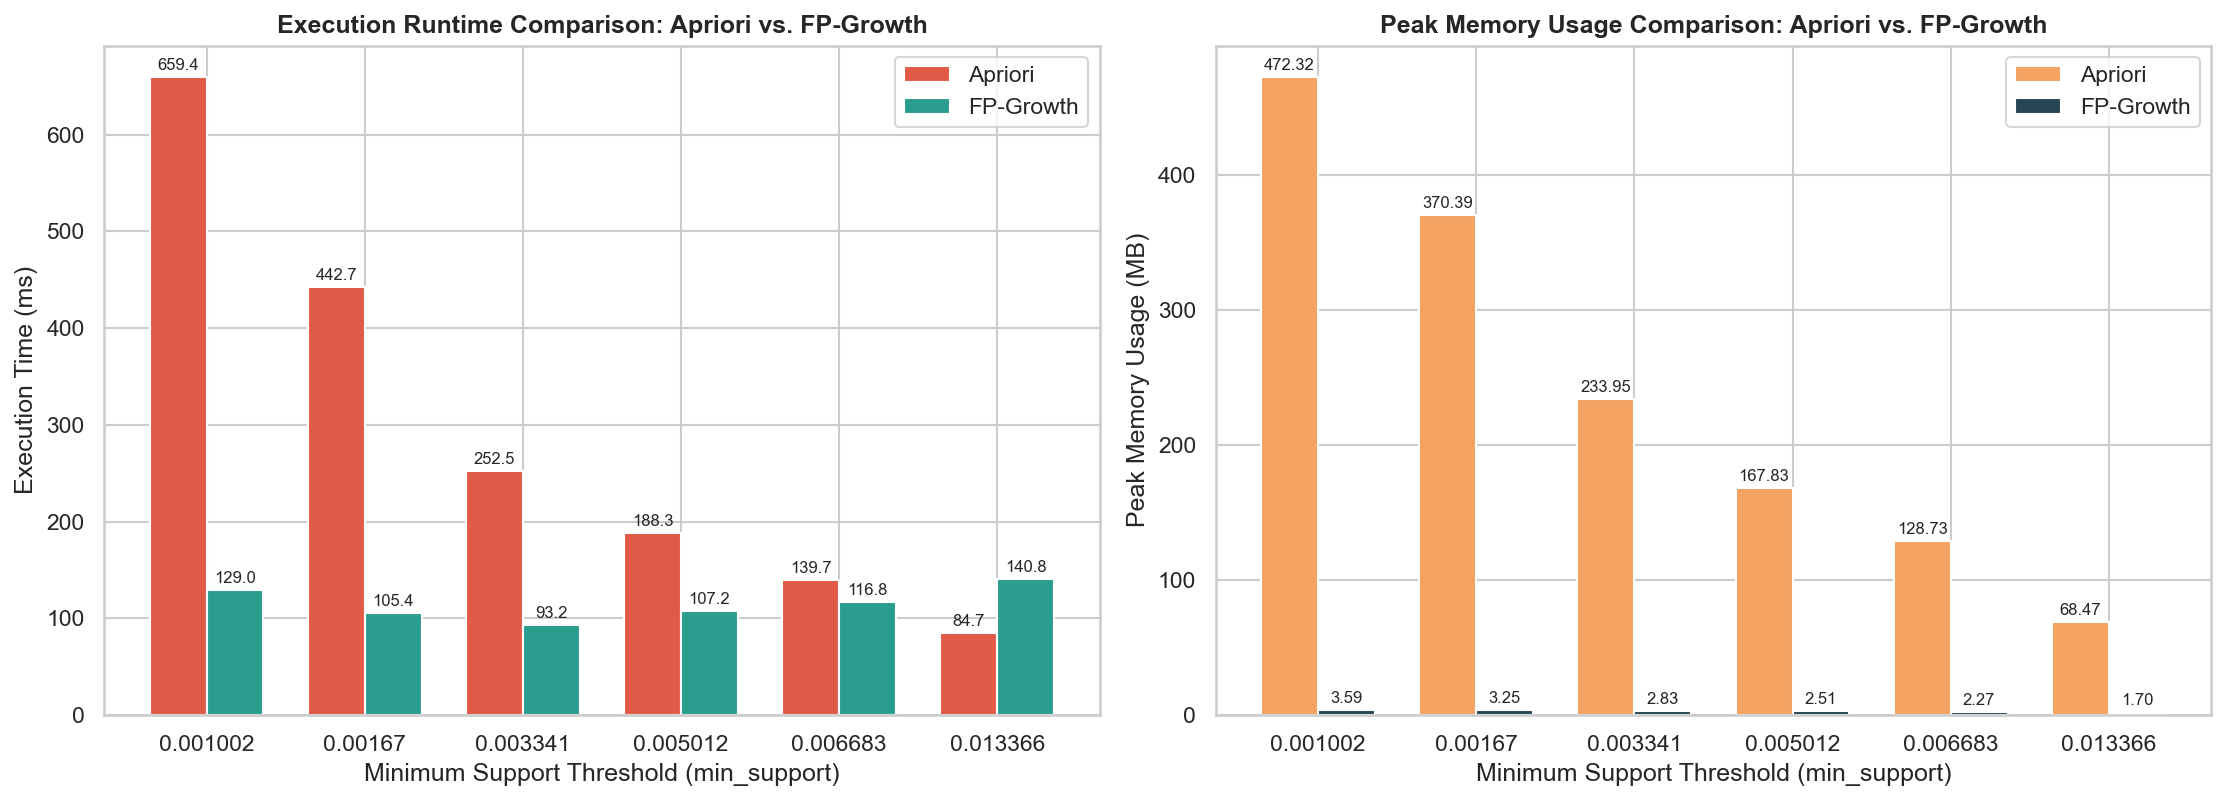
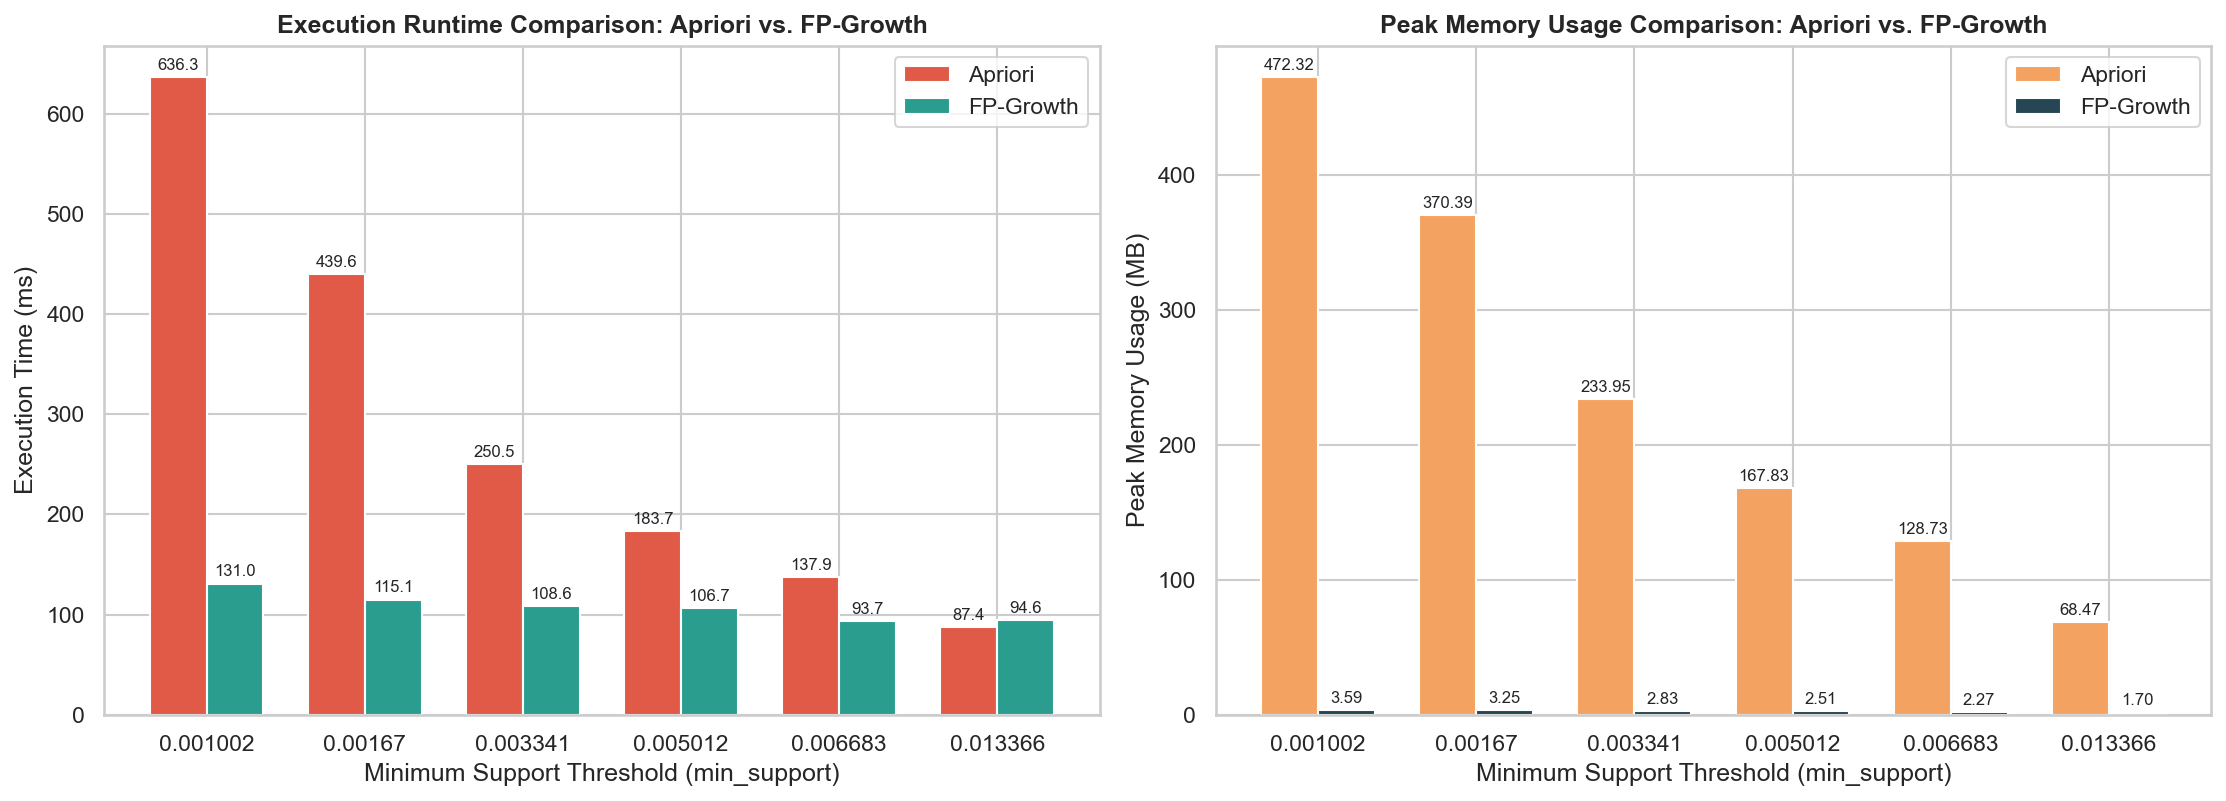
Show top 5 rules in network graph and refresh outputs
- Network graph shows the 5 highest-lift rules instead of 20
- Drop leverage and conviction from cross-selling recommendations
- Re-run benchmark and rule tables with the current thresholds

diff --git a/src/visualization/plots.py b/src/visualization/plots.py
@@ -119,7 +119,7 @@ def plot_support_confidence_heatmap(grid_df: pd.DataFrame, output_dir: Path) -> 
     return save_path
 
 
-def plot_rules_distribution(rules_df: pd.DataFrame, output_dir: Path, top_n_network: int = 20) -> Path:
+def plot_rules_distribution(rules_df: pd.DataFrame, output_dir: Path, top_n_network: int = 5) -> Path:
     """Vẽ Scatter plot (Support vs Confidence, màu theo Lift) và đồ thị mạng luật kết hợp Lift > 1."""
     output_dir.mkdir(parents=True, exist_ok=True)
     if rules_df.empty:

diff --git a/src/business_strategy/cross_selling.py b/src/business_strategy/cross_selling.py
@@ -81,8 +81,6 @@ def recommend_cross_selling(rules_lift_gt1: pd.DataFrame, top_n: int = 15) -> pd
         "support",
         "confidence",
         "lift",
-        "leverage",
-        "conviction",
     ]
     available_cols = [c for c in cols if c in rules_lift_gt1.columns]
     top_rules = rules_lift_gt1[available_cols].head(top_n).copy()

diff --git a/src/evaluation/benchmark.py b/src/evaluation/benchmark.py
@@ -65,7 +65,7 @@ def compare_algorithms_performance(
         mem_ratio = round(ap_mem / fp_mem, 2) if fp_mem > 0 else 1.0
 
         results.append(
-            {
+            { 
                 "min_support": min_sup,
                 "frequent_itemsets": fp_count,
                 "apriori_runtime_ms": ap_time,
